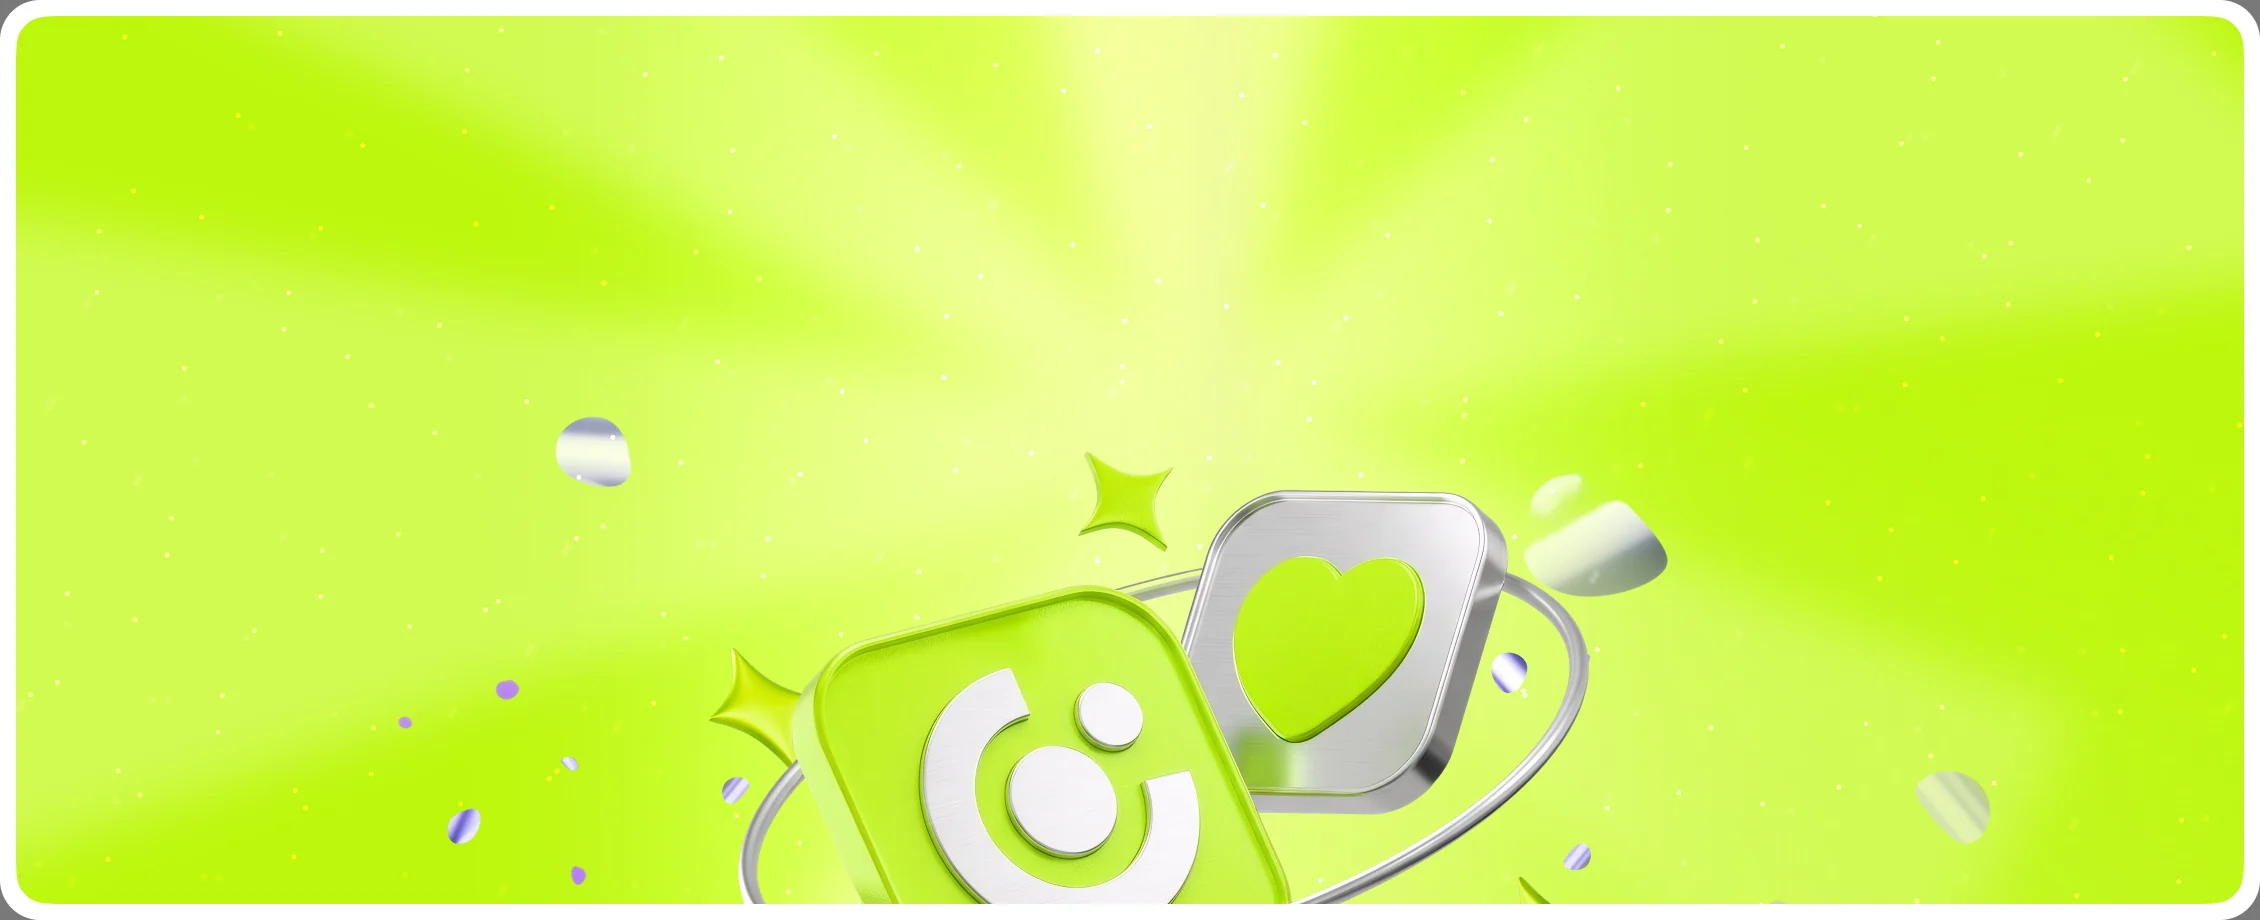
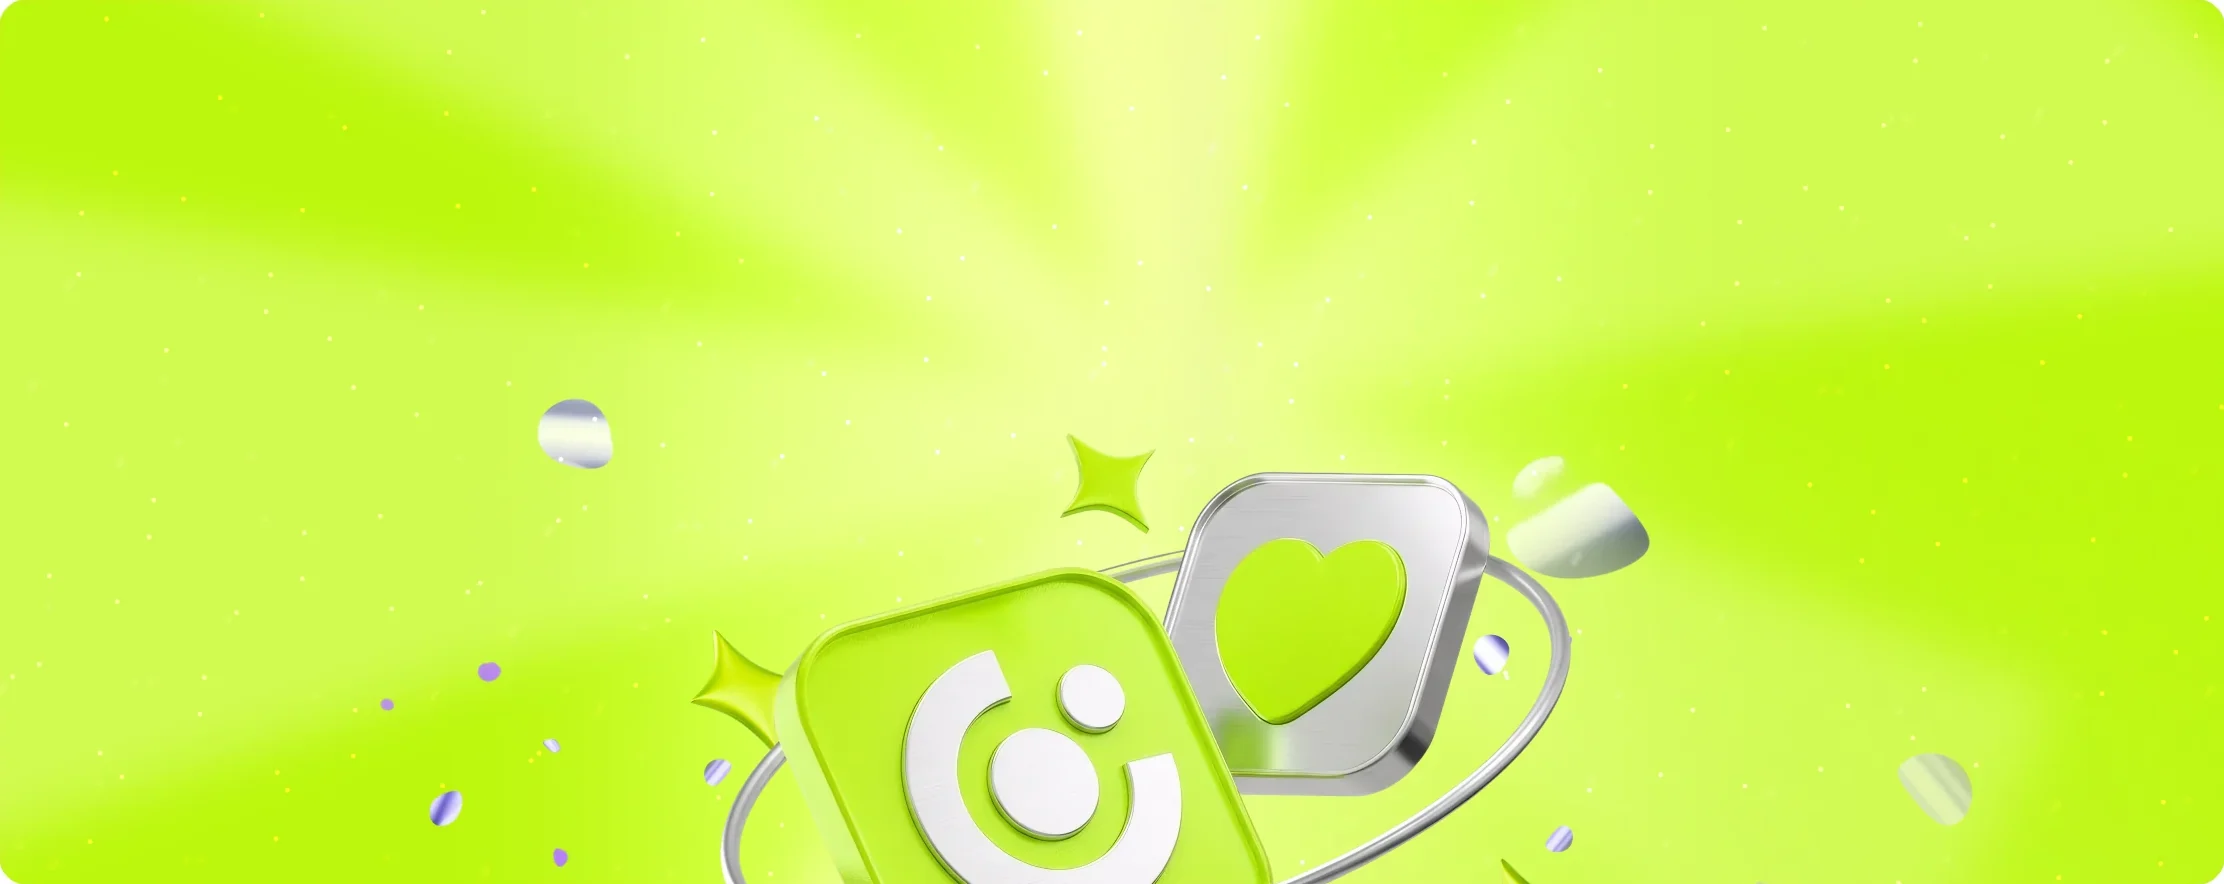
feat(offer): тёмная тема на токенах кита — переключатель, рамка баннера через CSS, адаптивные градиенты, контраст на лаймовых плашках

diff --git a/src/offer/offer.css b/src/offer/offer.css
@@ -7,6 +7,10 @@
 .offer-page {
   padding: var(--ui-spacing-xxxl);
 }
+/* Тёмная тема кита — класс dark на <html>; нативные контролы и скроллбары тоже тёмные. */
+html.dark {
+  color-scheme: dark;
+}
 /* В ките нет preflight: макетные блоки прототипа считаем по border-box. */
 .offer-page [class^="offer-"],
 .offer-page [class*=" offer-"] {
@@ -18,19 +22,30 @@
 }
 
 /* ---------- баннер ---------- */
+/* Рамка 8px — подложкой карточки (в тёмной теме темнеет), сама картинка без рамки, радиус 16 внутри. */
 .offer-banner {
   position: relative;
   aspect-ratio: 1130 / 460;
   min-height: 300px;
+  padding: var(--ui-spacing-md);
   overflow: hidden;
   border-radius: var(--ui-radius-xl);
+  /* баннер лаймовый в обеих темах — текст и тост всегда тёмные */
+  color: var(--ui-universal-neutral-dark);
 }
 .offer-banner__bg {
   position: absolute;
-  inset: 0;
-  width: 100%;
-  height: 100%;
+  inset: var(--ui-spacing-md);
+  width: calc(100% - 2 * var(--ui-spacing-md));
+  height: calc(100% - 2 * var(--ui-spacing-md));
+  border-radius: var(--ui-radius-lg);
   object-fit: cover;
+}
+.offer-banner__toast {
+  color: var(--ui-universal-neutral-dark);
+}
+.offer-banner__subtitle {
+  color: var(--ui-universal-neutral-gray);
 }
 /* Конфетти по клику на баннер: слой на весь экран, сыплется поверх страницы, клики пропускает */
 .offer-confetti-layer {
@@ -182,12 +197,12 @@
 /* Градиенты — по gradientTransform из Figma (188-42370): позиции стопов пересчитаны в проценты высоты карточки. */
 .offer-culture__card--lime {
   background:
-    linear-gradient(180deg, var(--ui-vibrant-adaptive-sl-40-150) -7%, rgba(240, 251, 223, 0) 56%),
+    linear-gradient(180deg, var(--ui-vibrant-adaptive-sl-40-150) -7%, transparent 56%),
     var(--ui-base-surface-secondary-standard-lime-normal);
 }
 .offer-culture__card--purple {
   background:
-    linear-gradient(180deg, #e8deff 30%, rgba(249, 249, 250, 0.28) 91%),
+    linear-gradient(180deg, var(--ui-vibrant-adaptive-vl-20-100) 30%, transparent 91%),
     var(--ui-colorfull-surface-secondary-standard-purple-normal);
 }
 /* Размытая фиолетовая полоса из макета (Rectangle 7 в карточке «ОТП Коины»). */
@@ -205,7 +220,9 @@
   pointer-events: none;
 }
 .offer-culture__card--blue {
-  background: linear-gradient(180deg, var(--ui-vibrant-adaptive-sk-30-150) -39%, rgba(237, 246, 253, 0.22) 117%);
+  background:
+    linear-gradient(180deg, var(--ui-vibrant-adaptive-sk-30-150) -39%, transparent 117%),
+    var(--ui-base-surface-tertiary-neutral-normal);
 }
 .offer-culture__deco {
   position: absolute;

diff --git a/src/offer/scenario-panel.tsx b/src/offer/scenario-panel.tsx
@@ -2,14 +2,17 @@ import * as React from "react";
 
 import { Button } from "@otp/space-ui-kit/button";
 import { Chip } from "@otp/space-ui-kit/chip";
+import { IconButton } from "@otp/space-ui-kit/icon-button";
+import { LightbulbLine24Icon } from "@otp/space-ui-kit/icons/lightbulb-line-24";
 import { LockClosedLine16Icon } from "@otp/space-ui-kit/icons/lock-closed-line-16";
 import { Typography } from "@otp/space-ui-kit/typography";
 
 import { SCENARIOS, isLocked } from "./state";
 import type { Scenario } from "./state";
+import type { Theme } from "./theme";
 
 /** Плавающий переключатель сценариев для модератора теста; скрывается параметром ?clean. */
-export function ScenarioPanel({ current, onSelect }: { current: Scenario; onSelect: (s: Scenario) => void }) {
+export function ScenarioPanel({ current, onSelect, theme, onToggleTheme }: { current: Scenario; onSelect: (s: Scenario) => void; theme: Theme; onToggleTheme: () => void }) {
   const [open, setOpen] = React.useState(false);
   if (new URLSearchParams(window.location.search).has("clean")) return null;
   return (
@@ -36,9 +39,21 @@ export function ScenarioPanel({ current, onSelect }: { current: Scenario; onSele
           ))}
         </div>
       ) : null}
-      <Button variant="secondary" tone="specialBlack" size="small" onClick={() => setOpen((o) => !o)} aria-expanded={open}>
-        {open ? "Скрыть сценарии" : "Сценарии"}
-      </Button>
+      <div className="flex items-center gap-spacing-md">
+        <IconButton
+          variant="secondary"
+          tone="specialBlack"
+          size="small"
+          aria-label={theme === "dark" ? "Включить светлую тему" : "Включить тёмную тему"}
+          aria-pressed={theme === "dark"}
+          onClick={onToggleTheme}
+        >
+          <LightbulbLine24Icon aria-hidden="true" />
+        </IconButton>
+        <Button variant="secondary" tone="specialBlack" size="small" onClick={() => setOpen((o) => !o)} aria-expanded={open}>
+          {open ? "Скрыть сценарии" : "Сценарии"}
+        </Button>
+      </div>
     </div>
   );
 }

diff --git a/src/offer/banner.tsx b/src/offer/banner.tsx
@@ -26,20 +26,20 @@ export function Banner({ kind }: { kind: OfferKind }) {
   };
 
   return (
-    <section className="offer-banner" aria-label="Приглашение в команду" onClick={onClick}>
+    <section className="offer-banner bg-base-surface-primary-block-normal" aria-label="Приглашение в команду" onClick={onClick}>
       <img className="offer-banner__bg" src={asset("banner-bg")} alt="" />
       <canvas ref={canvasRef} className="offer-confetti-layer" aria-hidden="true" />
       <img className="offer-banner__logo" src={asset("otp-logo", "svg")} alt="ОТП Банк" />
-      <div className="offer-banner__toast rounded-radius-sm bg-base-surface-primary-block-normal px-spacing-md py-spacing-xs">
-        <Typography.Body.ThreeM>Все будет ОТП</Typography.Body.ThreeM>
+      <div className="offer-banner__toast rounded-radius-sm bg-universal-neutral-white px-spacing-md py-spacing-xs">
+        <Typography.Body.ThreeM color="inherit">Все будет ОТП</Typography.Body.ThreeM>
       </div>
       <div className="offer-banner__text grid gap-spacing-lg justify-items-center text-center">
-        <Typography.Promo.FourM as="h1" className="offer-banner__title m-0">
+        <Typography.Promo.FourM as="h1" color="inherit" className="offer-banner__title m-0">
           {candidate.firstName}, мы приглашаем тебя
           <br />
           на позицию {position.title}
         </Typography.Promo.FourM>
-        <Typography.Body.ThreeR as="p" color="secondary" className="m-0">
+        <Typography.Body.ThreeR as="p" color="inherit" className="offer-banner__subtitle m-0">
           {position.department}
         </Typography.Body.ThreeR>
       </div>

diff --git a/src/offer/theme.ts b/src/offer/theme.ts
@@ -1,0 +1,45 @@
+import * as React from "react";
+
+export type Theme = "light" | "dark";
+const KEY = "offer-theme";
+
+function readInitial(): Theme {
+  const fromUrl = new URLSearchParams(window.location.search).get("theme");
+  if (fromUrl === "dark" || fromUrl === "light") return fromUrl;
+  try {
+    const saved = localStorage.getItem(KEY);
+    if (saved === "dark" || saved === "light") return saved;
+  } catch {
+    /* приватный режим */
+  }
+  return window.matchMedia("(prefers-color-scheme: dark)").matches ? "dark" : "light";
+}
+
+function apply(theme: Theme) {
+  document.documentElement.classList.toggle("dark", theme === "dark");
+}
+
+/**
+ * Тема прототипа: класс `dark` на <html> переключает токены кита.
+ * Источник по приоритету: ?theme=dark|light → localStorage → системная настройка.
+ */
+export function useTheme(): [Theme, () => void] {
+  const [theme, setTheme] = React.useState<Theme>(() => {
+    const initial = readInitial();
+    apply(initial);
+    return initial;
+  });
+  const toggle = React.useCallback(() => {
+    setTheme((t) => {
+      const next: Theme = t === "dark" ? "light" : "dark";
+      apply(next);
+      try {
+        localStorage.setItem(KEY, next);
+      } catch {
+        /* приватный режим */
+      }
+      return next;
+    });
+  }, []);
+  return [theme, toggle];
+}

diff --git a/src/offer/offer-page.tsx b/src/offer/offer-page.tsx
@@ -14,10 +14,12 @@ import { ScenarioPanel } from "./scenario-panel";
 import { Sidebar } from "./sidebar";
 import { StatusMessage } from "./status";
 import { offerKind, useOfferState } from "./state";
+import { useTheme } from "./theme";
 
 /** Страница оффера кандидата: баннер, сайдбар с шагами и контент по сценарию. */
 export function OfferPage() {
   const { state, actions } = useOfferState();
+  const [theme, toggleTheme] = useTheme();
   const [declineOpen, setDeclineOpen] = React.useState(false);
   const [parkingOpen, setParkingOpen] = React.useState(false);
   const kind = offerKind(state.scenario);
@@ -65,7 +67,7 @@ export function OfferPage() {
       />
       <ParkingPopup open={parkingOpen} onClose={() => setParkingOpen(false)} />
       <CodePopup target={state.lockedRequest} onSuccess={actions.unlockAndOpen} onClose={actions.cancelLocked} />
-      <ScenarioPanel current={state.scenario} onSelect={actions.setScenario} />
+      <ScenarioPanel current={state.scenario} onSelect={actions.setScenario} theme={theme} onToggleTheme={toggleTheme} />
     </div>
   );
 }

diff --git a/src/offer/sidebar.tsx b/src/offer/sidebar.tsx
@@ -62,10 +62,10 @@ export function Sidebar({ state }: { state: OfferState }) {
             <li key={step.n} className="flex items-center gap-spacing-lg" aria-current={step.active ? "step" : undefined}>
               <span
                 className={`flex size-size-sm shrink-0 items-center justify-center rounded-radius-md ${
-                  step.active ? "bg-base-surface-primary-lime-normal" : "bg-base-surface-secondary-contrast-neutral-normal"
+                  step.active ? "bg-base-surface-primary-lime-normal text-universal-neutral-dark" : "bg-base-surface-secondary-contrast-neutral-normal text-base-texticons-primary"
                 }`}
               >
-                <Typography.Body.ThreeM>{step.n}</Typography.Body.ThreeM>
+                <Typography.Body.ThreeM color="inherit">{step.n}</Typography.Body.ThreeM>
               </span>
               <span className="grid gap-spacing-xxs">
                 <Typography.Body.OneM>{step.title}</Typography.Body.OneM>

diff --git a/src/offer/accepted-view.tsx b/src/offer/accepted-view.tsx
@@ -67,7 +67,7 @@ export function AcceptedView() {
                     aria-checked={rating === n}
                     aria-label={`${n} из 5 — ${STAR_LABELS[n - 1]}`}
                     className={`offer-star flex cursor-pointer items-center justify-center rounded-radius-sm border-0 p-0 ${
-                      n <= shown ? "bg-base-surface-primary-lime-normal text-base-texticons-primary" : "bg-base-surface-secondary-contrast-lime-normal text-base-texticons-lime-bright"
+                      n <= shown ? "bg-base-surface-primary-lime-normal text-universal-neutral-dark" : "bg-base-surface-secondary-contrast-lime-normal text-base-texticons-lime-bright"
                     }`}
                     onMouseEnter={() => setHover(n)}
                     onFocus={() => setHover(n)}

diff --git a/PROTOTYPE-NOTES.md b/PROTOTYPE-NOTES.md
@@ -49,6 +49,14 @@ textarea «Поделись мнением», кнопка «Отправить 
 - Панель кнопок липнет к низу окна после прокрутки баннера (фреймы 2–3 макета
   «скролл»); наверху страницы не перекрывает условия.
 
+## Тёмная тема
+
+Токены кита: класс `dark` на `<html>`. Переключатель — кнопка-лампочка рядом с
+«Сценарии»; `?theme=dark|light` в адресе задаёт тему принудительно, выбор запоминается
+в localStorage, по умолчанию — системная настройка. Баннер лаймовый в обеих темах
+(рамка вокруг него — подложкой карточки), градиенты карточек «Тебя ждёт в ОТП» — на
+адаптивных токенах Vibrant/Adaptive.
+
 ## Пасхалка
 
 Клик по баннеру — залп конфетти из точки клика по всему окну (слой поверх страницы) в брендовых цветах Universal/Brand
